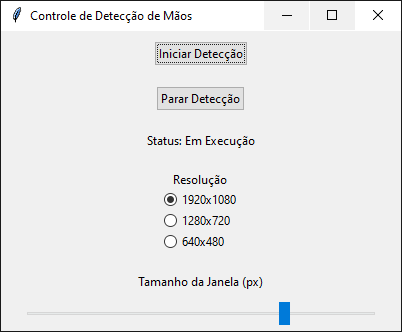
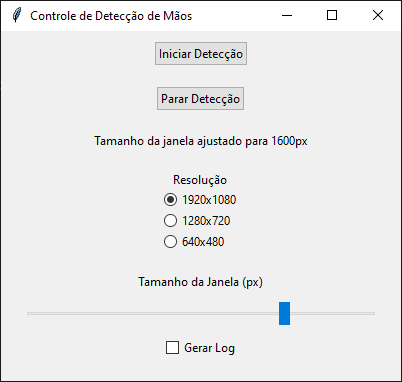
Contador de Dedos - Detecção de Mãos com MediaPipe e OpenCV

diff --git a/processar_video.py b/processar_video.py
@@ -1,5 +1,6 @@
 import cv2
 import mediapipe as mp
+import datetime
 
 # Define constantes para configuração
 RESOLUCAO_LARGURA_FINAL = 1920
@@ -95,7 +96,7 @@ def desenha_mao(imagem, lado_mao, contador_dedos, largura):
     cv2.putText(imagem, f"Dedos: {contador_dedos}", (start_x + 10, start_y + 80), cv2.FONT_HERSHEY_SIMPLEX, 1, (255, 255, 255), 2)
 
 
-def processa_maos(imagem, resultado, largura, altura):
+def processa_maos(imagem, resultado, largura, altura, log_habilitado=False):
     """
     Processa as mãos detectadas na imagem.
 
@@ -129,6 +130,40 @@ def processa_maos(imagem, resultado, largura, altura):
             contador_dedos = conta_dedos(pontos, lado_mao)
             desenha_mao(imagem, lado_mao, contador_dedos, largura)
 
+            # Gera log dos pontos e informações adicionais, se solicitado
+            if log_habilitado:
+                pontos_log = {f"ID_{id}": (cx, cy) for id, (cx, cy) in enumerate(pontos)}
+                gerar_log({
+                    "Lado da Mão": lado_mao,
+                    "Contador de Dedos": contador_dedos,
+                    "Pontos das Landmarks": pontos_log,
+                })
+
+
+def gerar_log(dados, caminho_arquivo="log_deteccao.txt"):
+    """
+    Gera um arquivo de log com os dados fornecidos.
+
+    Args:
+        dados (dict ou str): Dados a serem registrados no log. Pode ser um dicionário ou uma string.
+        caminho_arquivo (str): Caminho do arquivo de log. Default é 'log_deteccao.txt'.
+
+    Returns:
+        None
+    """
+    try:
+        with open(caminho_arquivo, "a") as arquivo_log:
+            # Escreve a data e hora atual
+            arquivo_log.write(f"[{datetime.datetime.now()}] - Log:\n")
+            if isinstance(dados, dict):  # Caso os dados sejam um dicionário
+                for chave, valor in dados.items():
+                    arquivo_log.write(f"  {chave}: {valor}\n")
+            elif isinstance(dados, str):  # Caso seja uma string
+                arquivo_log.write(f"  {dados}\n")
+            arquivo_log.write("\n")  # Linha em branco para separar
+    except Exception as e:
+        print(f"Erro ao gerar log: {e}")
+
 
 def configurar_video_e_janela_local():
     """
@@ -140,6 +175,7 @@ def configurar_video_e_janela_local():
     cv2.namedWindow(NOME_JANELA, cv2.WINDOW_NORMAL)
     cv2.resizeWindow(NOME_JANELA, TAMANHO_JANELA[0], TAMANHO_JANELA[1])
     return captura
+
 
 def configurar_video_e_janela(resolucao_largura, resolucao_altura, tamanho_janela):
     """
@@ -173,7 +209,7 @@ def main():
         frame_rgb = cv2.cvtColor(frame, cv2.COLOR_BGR2RGB)
         resultado = maos.process(frame_rgb)
         altura, largura, _ = frame.shape
-        processa_maos(frame, resultado, largura, altura)
+        processa_maos(frame, resultado, largura, altura, log_habilitado=False)
         cv2.imshow(NOME_JANELA, frame)
 
         if cv2.waitKey(1) & 0xFF == 27:  # Tecla Esc para fechar

diff --git a/interface.py b/interface.py
@@ -9,9 +9,12 @@ class AppInterface:
     def __init__(self, root):
         self.root = root
         self.root.title("Controle de Detecção de Mãos")
-        self.root.geometry("400x300")
+        self.root.geometry("400x350")
         self.running = False
         self.video_thread = None
+
+        # Variável para controlar o log
+        self.generate_log = tk.BooleanVar(value=False)  # Inicialmente desativado (False)
 
         # Botões
         self.start_button = ttk.Button(root, text="Iniciar Detecção", command=self.start_video)
@@ -41,6 +44,15 @@ class AppInterface:
         self.slider_window.set(1600)
         self.slider_window.pack()
 
+        # Opção de Gerar Log
+        ttk.Checkbutton(
+            root,
+            text="Gerar Log",
+            variable=self.generate_log,  # Variável vinculada ao estado do checkbox
+            onvalue=True,  # Valor se a checkbox for ativada
+            offvalue=False  # Valor se a checkbox for desativada
+        ).pack(pady=10)
+
     def start_video(self):
         if not self.running:
             self.running = True
@@ -57,6 +69,9 @@ class AppInterface:
         self.status_label.config(text=f"Tamanho da janela ajustado para {new_size}px")
 
     def run_video(self):
+        # Verifica se o log está ativado
+        gerar_log = self.generate_log.get()
+
         # Extraindo valores da interface gráfica
         resolucao_str = self.selected_res.get()  # Exemplo: "1920x1080"
         resolucao_largura, resolucao_altura = map(int, resolucao_str.split("x"))
@@ -78,8 +93,7 @@ class AppInterface:
             frame_rgb = cv2.cvtColor(frame, cv2.COLOR_BGR2RGB)
             resultado = maos.process(frame_rgb)
             altura, largura, _ = frame.shape
-            processa_maos(frame, resultado, largura, altura)
-
+            processa_maos(frame, resultado, largura, altura, log_habilitado=gerar_log)
             cv2.imshow("Stream de Mãos", frame)
 
             # Parar ao pressionar Esc

diff --git a/README.md b/README.md
@@ -32,12 +32,12 @@ O script principal (main.py) utiliza técnicas de **visão computacional** para 
 - **Renderização em Vídeo**:
     - Resolução da captura.
     - Tamanho da janela de vídeo.
-    - Aparência visual com cores e estilos customizáveis.
 
 - **Configurações Personalizáveis**:
     - Resolução da captura.
     - Tamanho da janela de vídeo.
-    - Aparência visual com cores e estilos customizáveis.
+    - Escolha de gerar log.
+
 
 Este projeto faz uso da biblioteca **MediaPipe**, desenvolvida pela **Google**, para a detecção de mãos. Para mais detalhes sobre como funciona o MediaPipe, suas funcionalidades e documentações oficiais, visite:
 
@@ -100,6 +100,7 @@ Na interface gráfica implementada no arquivo `interface.py`, é possível confi
 - **Resolução**.
 - **Iniciar a execução**.
 - **Interromper a execução**.
+- **Escolha de gerar log**
 
 
 Essas configurações podem ser ajustadas para personalizar o comportamento do programa, como alterar a resolução de saída da câmera ou o estilo visual da renderização da janela.
